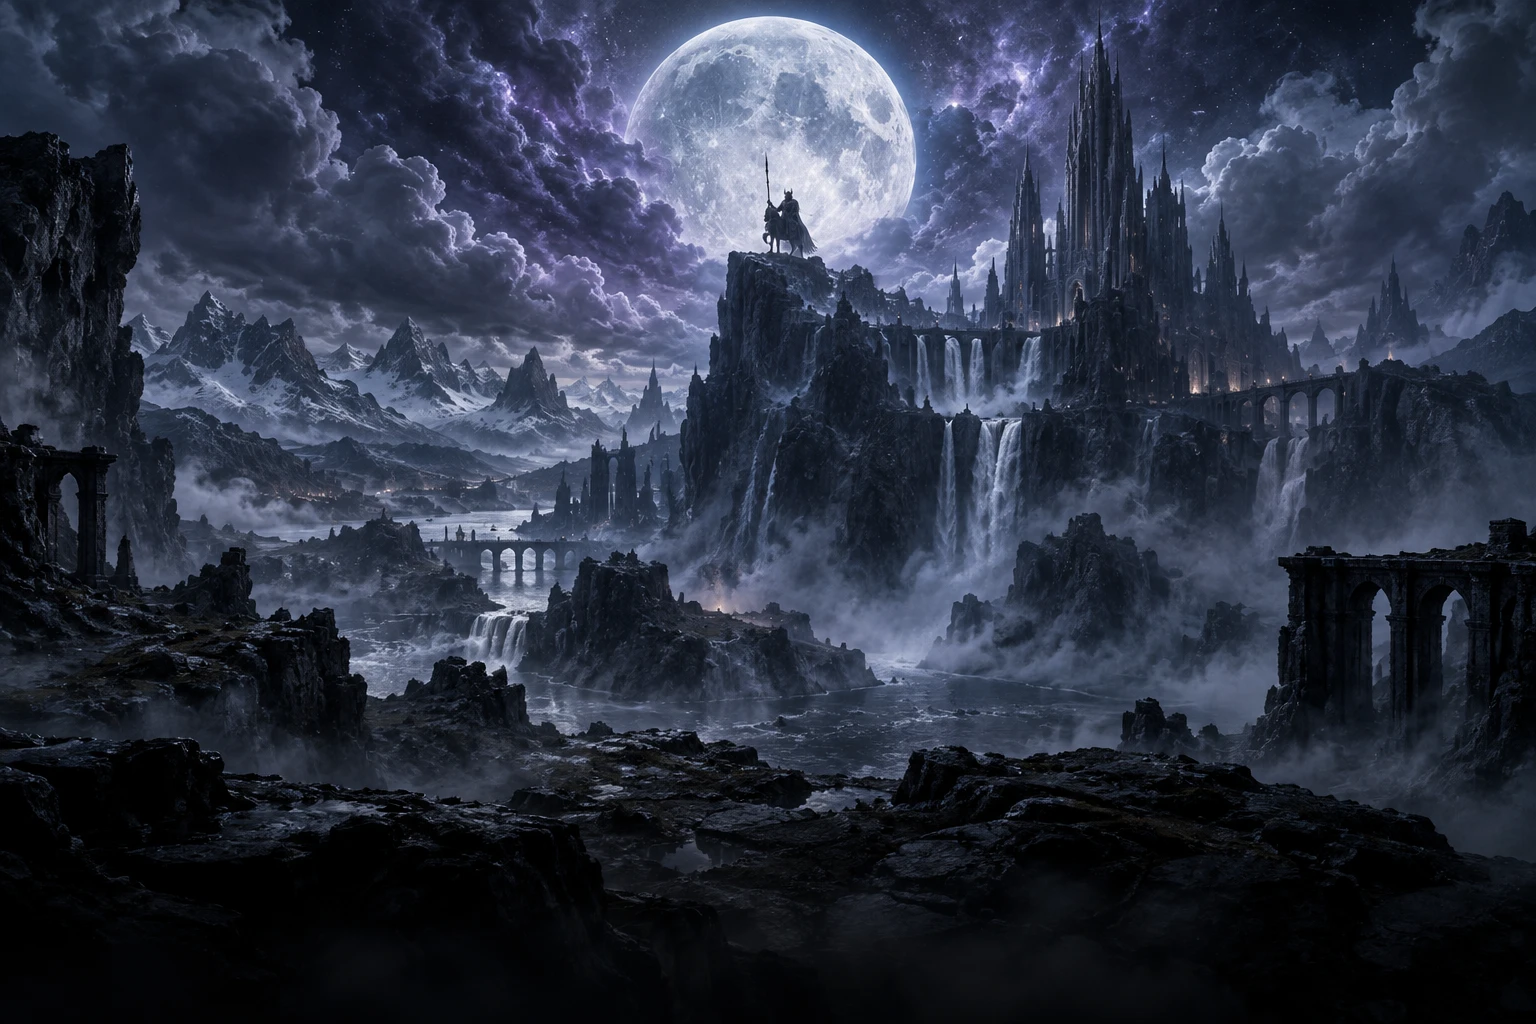
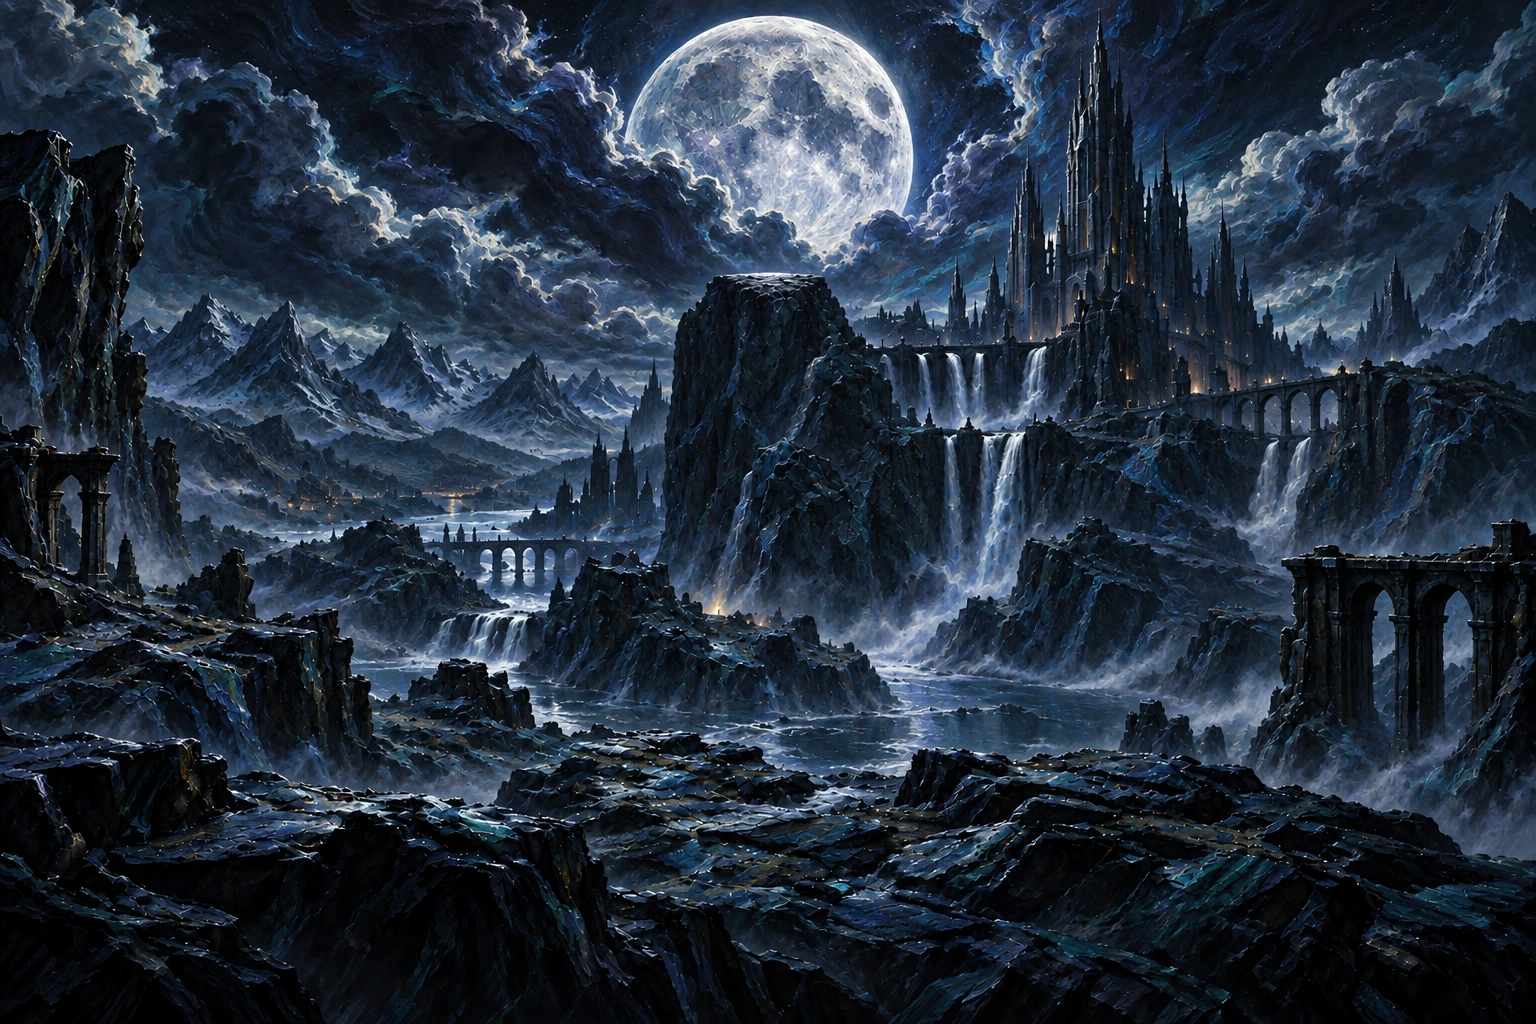
Redesign public Odin rider and keep private artwork separate

diff --git a/src/app/globals.css b/src/app/globals.css
@@ -245,3 +245,7 @@
  .insight-panel{min-height:275px}
  .raven-panel p{max-width:88%;font-size:11px}
 }
+
+/* Public-edition rider: keep all four hooves on the existing rock summit.
+   Coordinates are relative to the same 1536x1024 scene on desktop/mobile. */
+.hero-odin{left:40.365%;top:10.8%;width:15.299%}

diff --git a/docs/ASSETS.md b/docs/ASSETS.md
@@ -1,0 +1,40 @@
+# 公開版Odinの人物画像
+
+2026-09-26。公開用の騎乗人物を、内蔵 `image_gen` で新たに生成しました。具体的なモデルバージョンはツールから確認できないため断定していません。
+
+## デザイン
+
+従来の角のある兜・棘状の鎧・大剣から、月蝕の環を持つフード、白銀の仮面と編んだ髭、星図の鎧、天球儀を思わせる槍、三日月の馬具へ変更しました。現在の騎乗構図と銀青の月光を参考にし、人物・馬具・武器を作り直しています。
+
+- 配布ファイル: `public/assets/odin-refined-cutout.webp`。参照URLを維持して画像だけを置換。
+- 1280 × 921、WebP、透過alpha。生成元PNGからSharpで寸法調整とエンコードだけを実施。
+- 元の人物を合成していた `odin-reference-realm.webp` は、人物のない `odin-realm-unified.webp` と同じ背景に置換。`odin-realm.webp` も同じ人物なし背景へ統一。
+- 非公開の個人版で使用する画像・アプリコード・本番環境は変更していません。公開版の同期元に専用素材を指定しており、再同期でも旧人物に戻りません。
+
+## 入力の役割
+
+1. 従来の騎乗人物: 配置・ポーズ・縮尺の参考。顔・兜・鎧・馬具・武器の造形を保持しないよう指定。
+2. 人物のない月夜の背景: 色と光だけの参考。出力は背景のない透過人物。
+
+## 最終プロンプト
+
+```text
+Use case: stylized-concept. Create a NEW ORIGINAL mounted Norse wisdom sovereign character for the public edition of a Japanese knowledge app called Odin. This is a substantial new character design, NOT a restoration of the reference character.
+INPUT ROLES: image 1 is ONLY a placement/pose/scale reference for the mounted rider silhouette; do not preserve its face, helmet, armor, horse armor or weapon design. Image 2 is ONLY a moonlit environment color/lighting reference; no scenery in the output.
+Art direction: extraordinary sacred yet ominous Nordic dark fantasy painted realism, charcoal, indigo, weathered platinum, tiny aged gold accents, moonlit blue rim illumination. The new sovereign wears a low circular broken-eclipse crown floating just behind a calm hooded head, an aged ivory-metal face mask with ONE small blue luminous eye slit, and flowing midnight robes over broad smooth overlapping armor plates engraved with fine constellation maps. No tall forked horns, no jagged spike suit. Regal slender human proportions. An elegant long braided silver beard emerges beneath the mask; heavy raven-feather mantle on shoulders, long indigo fabric trailing left. One hand holds the reins, the other carries a long slender straight ceremonial SPEAR angled gently down toward the right, with a small open astronomical ring and leaf-shaped platinum tip. No enormous curved sword. The horse is a powerful anatomically natural dark dapple-gray Nordic horse with four coherent planted legs, quiet alert ears, flowing wind-blown silver-black mane and tail. Distinctive restrained pale platinum crescent-shaped chamfron, smooth layered saddle armor, engraved bronze harness rings; no jagged horn-like horse armor. Four clearly separated natural legs, solid hooves. Mounted ruler faces right in a majestic still three-quarter side view, tail and cape streaming left. Keep the striking mounted-god premise but create a clearly distinct identity and silhouette from Final Fantasy XVI Odin or any existing game character. No logos, text, no added bird.
+COMPOSITION for drop-in UI asset: horizontal canvas approximately 1280x921 (aspect 1.39); whole rider/horse/spear inside frame. Hooves almost at bottom, hoof cluster x0.23..0.68, rider head near x0.50,y0.10, horse muzzle near x0.88,y0.43, tail tip near x0.03,y0.75, spear tip near x0.97,y0.84. Fill canvas generously with minimal padding, keep all tips intact. Match image2 subtle silver-blue moonlight from above and behind with detailed navy shadow planes. Clean detailed cutout, true transparent alpha including hair and gaps between legs. NO painted background, black/white matte, ground, cliff, platform, cast-shadow plane, mist, aura, particles, checkerboard. All background pixels transparent. Polished highly dimensional finished game illustration.
+```
+
+## 接地の修正プロンプト
+
+生成した新しい人物だけを参照し、4本の脚の姿勢を調整しました。最終配置では公開版専用CSSを追加し、岩の頂面に足が収まるように縮尺と位置を調整しています。私用版のCSSは変更していません。
+
+```text
+Refine this transparent mounted Norse wisdom sovereign asset. Preserve the NEW design exactly: hood, eclipse ring crown, silver beard and mask, star-chart armor and cape, long straight astronomical spear, gray horse head and crescent harness. Preserve the full 1478x1064 canvas composition and true transparent background. This is a precise anatomical grounding correction ONLY.
+The character is composited onto a narrow flat rock whose support spans x=0.24 to x=0.67 at the bottom of this image. The current front hooves are too far right and float past the rock. Redraw the horse's lower torso and FOUR natural legs to create a compact, weight-bearing, three-quarter stance with all FOUR hoof contact points within x=0.26..0.66. Target hind hoof centers x=.29 and .39, front hoof centers x=.56 and .65. All hooves rest on the same nearly horizontal baseline at y=.98. Shift the horse torso slightly left if anatomically necessary; arrange its body angled toward the viewer in depth so the legs can stand close beneath it, not absurdly slanted. Keep the head facing right at the same height, similar tail/cape extent, and preserve rider position and weapon. Four legs only, four clean distinct hooves, no extra legs or ghost legs, no raised hoof. Keep the new character full size; do not add canvas padding or shrink everything.
+Match the subtle moonlit blue shading, natural fine hair, premium painted dark fantasy finish. NO ground or rock added, no environment, no background, no shadow plane, no glow cloud, no letters. Keep actual alpha transparency in all negative spaces. Keep the same aspect ratio 1.39 and all weapon/cape tips within image.
+```
+
+## 配布前に確認すること
+
+今回の造形変更は権利上の判断やライセンス付与を意味しません。以前のコミットには旧人物素材が残ります。公開前には必要に応じて履歴を含めた配布対象を整理し、コード・画像の配布条件を決めてください。リポジトリは引き続き非公開です。

diff --git a/docs/ASSET-REVIEW.md b/docs/ASSET-REVIEW.md
@@ -1,21 +1,24 @@
 # 素材の公開前確認
 
-このリポジトリは非公開の配布準備版です。コード・画像のライセンスはまだ設定していません。画像を含む現状の一式を公開してよいという判断は行っていません。
+このリポジトリは非公開の配布準備版です。コード・画像のライセンスはまだ設定していません。
 
-## 確認が必要な素材
+## 公開版の人物差し替え（2026-09-26）
 
-人物イラストの元資料には第三者サイト掲載画像が使用されており、元画像の切り抜き・合成・画像編集を経た素材が含まれます。生成AIで編集されたことだけでは再配布の可否は確定しません。
+従来の人物は特定ゲームのOdinに非常に近い造形だったため、公開版用に月蝕の冠・仮面・編んだ髭・星図の鎧・細身の槍を持つ騎乗の王を生成しました。人物の構図と月光を参考に、装備と造形を変更しています。入力の役割と正確な生成プロンプトは [ASSETS.md](ASSETS.md) に記録しています。
 
-- `odin-refined-cutout.webp`: 元の人物切り抜きを修復した編集素材。
-- `odin-reference-realm.webp`: 元の人物を合成した背景。過去のCSS宣言にも参照が残る。
-- `odin-realm-unified.webp`、`hugin-odin-palette.webp`、`munin-odin-palette.webp`: 同じ人物資料を参照した背景・カラス素材。公開用の独立した制作または権利確認を検討する。
+- `odin-refined-cutout.webp`: 公開版専用の新しい人物。名前は互換性のため維持。
+- `odin-reference-realm.webp`: 従来の人物入り合成をやめ、人物のいない背景へ置換。
+- `odin-realm.webp`: 同じ人物なし背景へ置換。
+- `odin-realm-unified.webp`: 現行の人物なし背景を維持。
 
-その他の採用背景・カラス・雲にも過去の参照資料との関係があるため、まとめて確認対象とします。現在参照される素材だけを収録し、参照元画像そのものや制作途中の未使用画像は収録していません。
+旧人物の切り抜きや合成画像の内容は現在のファイルから置き換えました。個人用の非公開版には反映していません。
 
-## 今後の選択
+## 公開前に残る確認
 
-1. 再配布の許諾を確認し、必要な表記と配布条件を整える。
-2. 公開版専用のオリジナル素材へ置き換え、PC/スマホで見た目を再検証する。
+- 新しい人物の生成にも従来の構図を参考にしています。今回の変更は再配布の権利確認を完了したという意味ではありません。
+- 過去のGitコミットには旧人物画像が残っています。公開する履歴の範囲も整理してください。今回、履歴の書き換えや強制pushは行っていません。
+- 背景と `hugin-odin-palette.webp` / `munin-odin-palette.webp` は従来の参考資料を使って制作された素材です。採用条件を確認し、必要に応じて公開用に制作し直します。
+- コードと画像の配布条件を決め、ライセンス対象を明示します。公開設定は所有者の指示があるまで変更しません。
 
 公開専用の差替素材を使う場合、元の個人用アプリは維持し、配布元のファイル一覧で公開用素材を割り当てます。
 

diff --git a/docs/RELEASE-STATUS.md b/docs/RELEASE-STATUS.md
@@ -10,6 +10,14 @@
 
 ## 検証（2026-09-26）
 
+### 公開版の人物差し替え
+
+騎乗人物を公開版専用の新しいデザインへ変更し、元人物入り合成背景も人物なし背景へ置き換えました。岩の上への接地は公開版専用CSSで調整しています。生成過程は [ASSETS.md](ASSETS.md) に記録しました。個人用の画像・アプリコードは維持しています。
+
+差替後に型チェック、単体・統合80件、本番ビルド、ブラウザー8件が成功しました。PC1440px/スマホ390pxの見た目、320pxの操作、演出切替・検索・作成・編集・履歴・復元・ZIP出力を確認しています。標準の3100ポートが使用中だったため、同じテスト3ファイルの接続先だけ3113に変えた一時コピーを専用vaultで実行しました。実Drive・本番・物理スマホには触れていません。
+
+### 初回の配布準備
+
 個人用の `.env.local` をコピーせず、新しいフォルダーで `npm ci`、型チェック、80件の単体・統合テスト、本番用ビルドが成功しました。ブラウザーE2Eは7件成功し、作成・検索・編集・履歴復元・ゴミ箱・エクスポート・星図・スマホ操作を確認しました。1440px/390pxのスクリーンショットを目視確認し、320pxの操作テストも通過しています。実Driveへの書き込みや実際のスマートフォン、本番デプロイはこの配布版では検証していません。
 
 同期スクリプトの検証は配布元で管理します。配布後の新しい依存関係、変更、画像差し替えは別途再検証してください。
